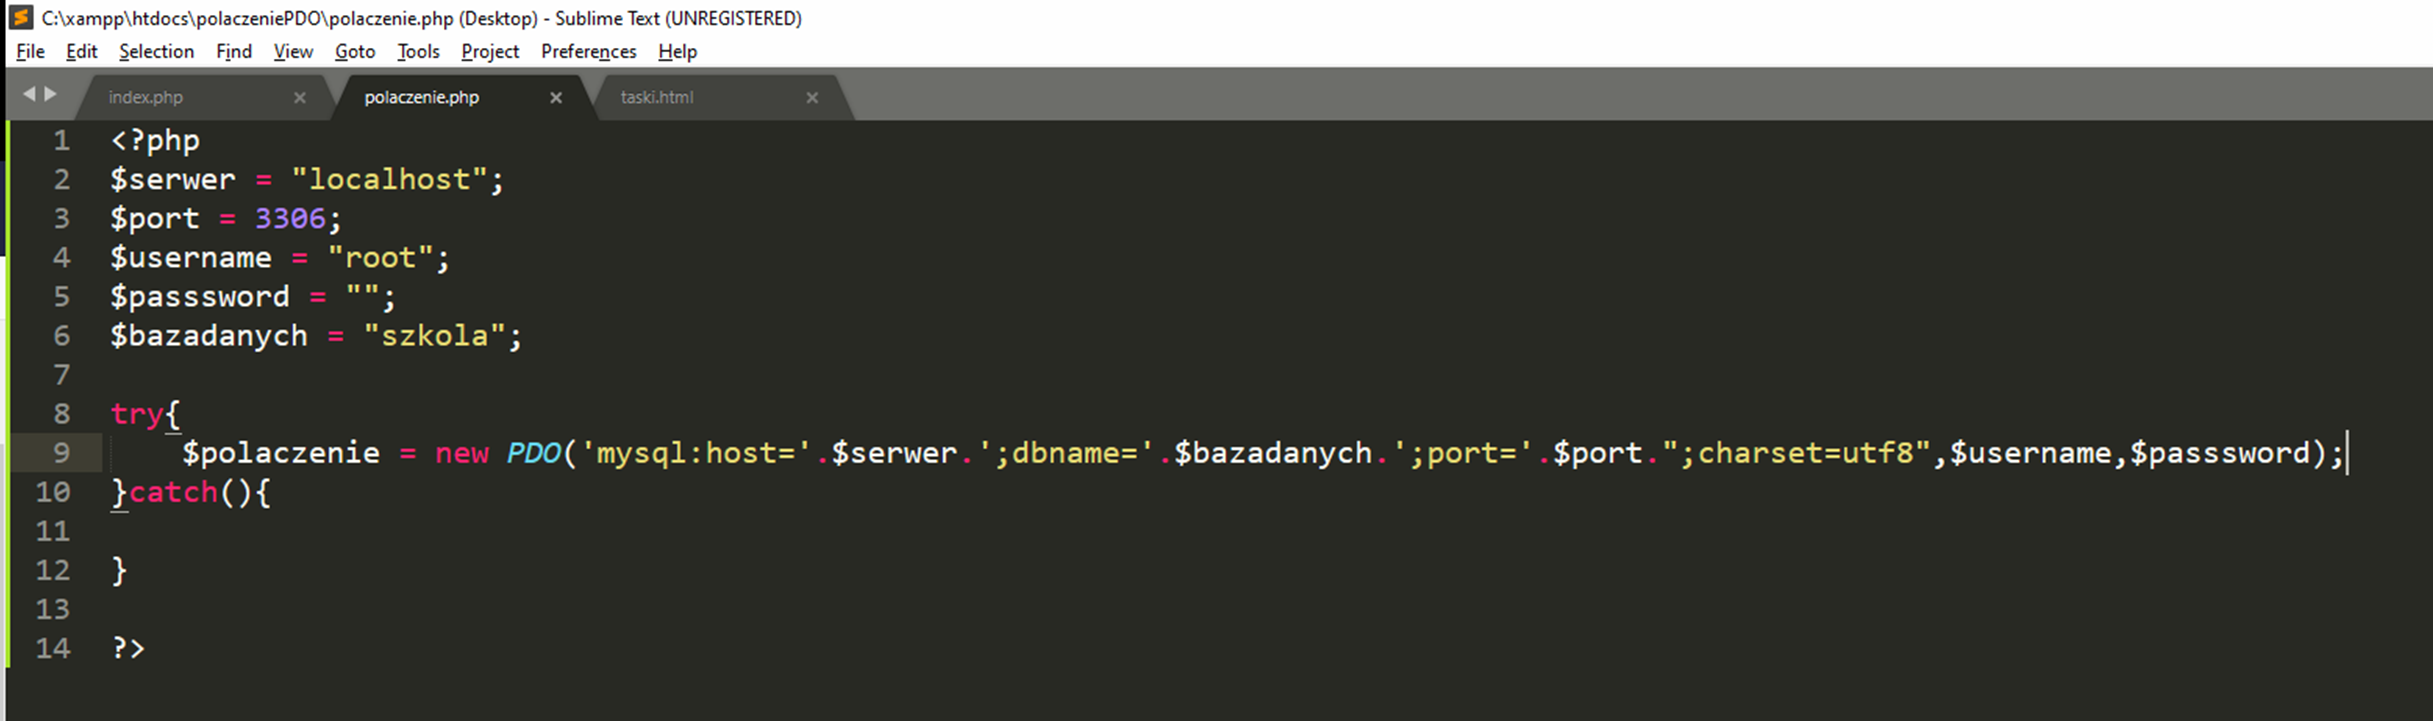
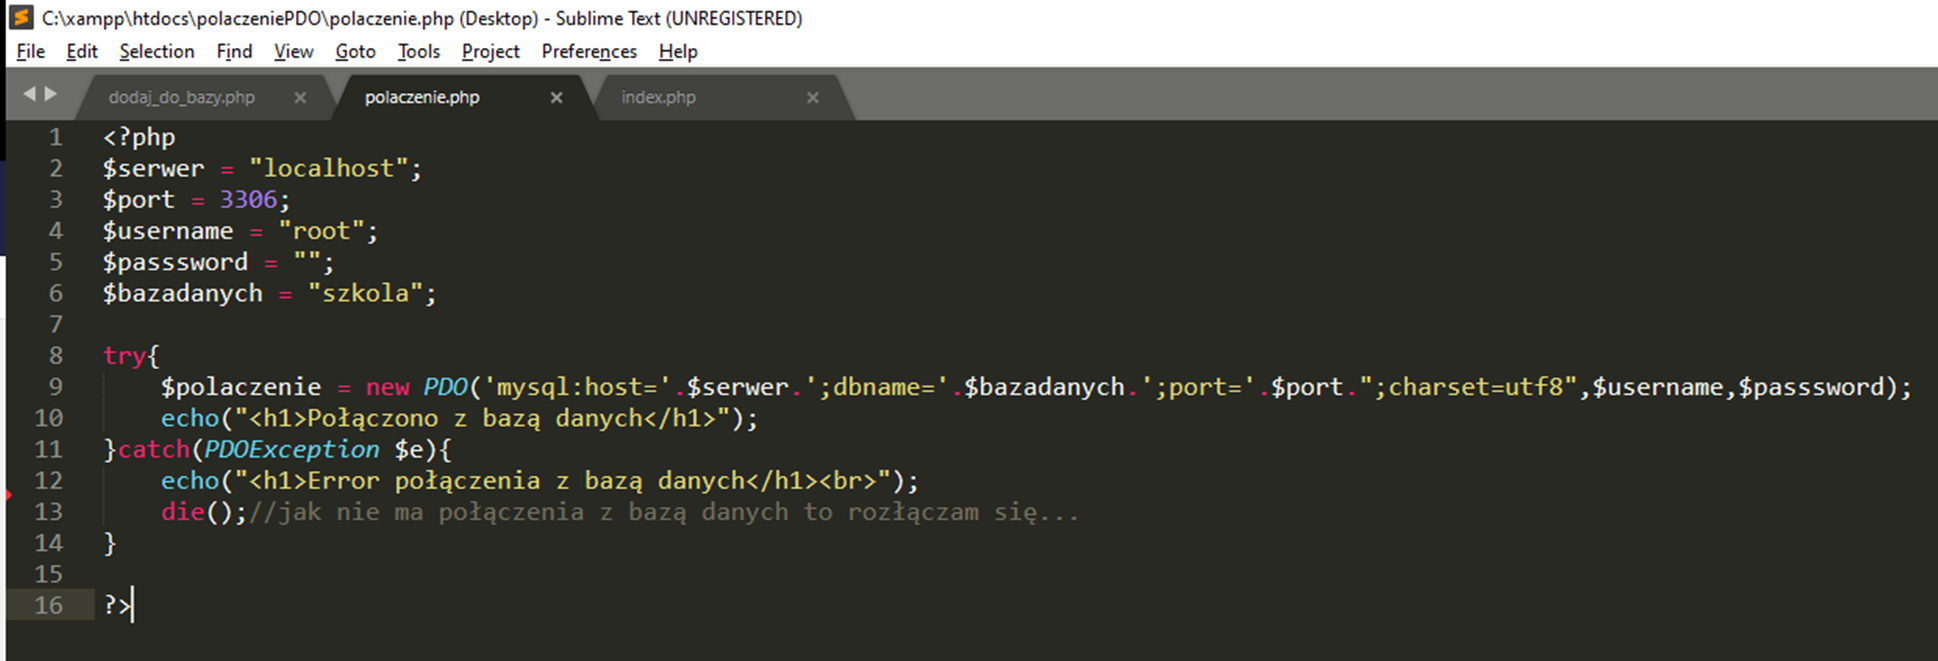
Aktualizacja zdjęć dla dokumentu taski.php, oraz pliku polaczenie.php

Changed region(s): [[0.0, 0.0, 1.0, 0.938]]

diff --git a/polaczenie.php b/polaczenie.php
@@ -10,7 +10,7 @@ try{
 	echo("<h1>Połączono z bazą danych</h1>");
 }catch(PDOException $e){
 	echo("<h1>Error połączenia z bazą danych</h1><br>");
-	echo($e.getMessage());
+	echo($e->getMessage());
 	die();//jak nie ma połączenia z bazą danych to rozłączam się...
 }
 
